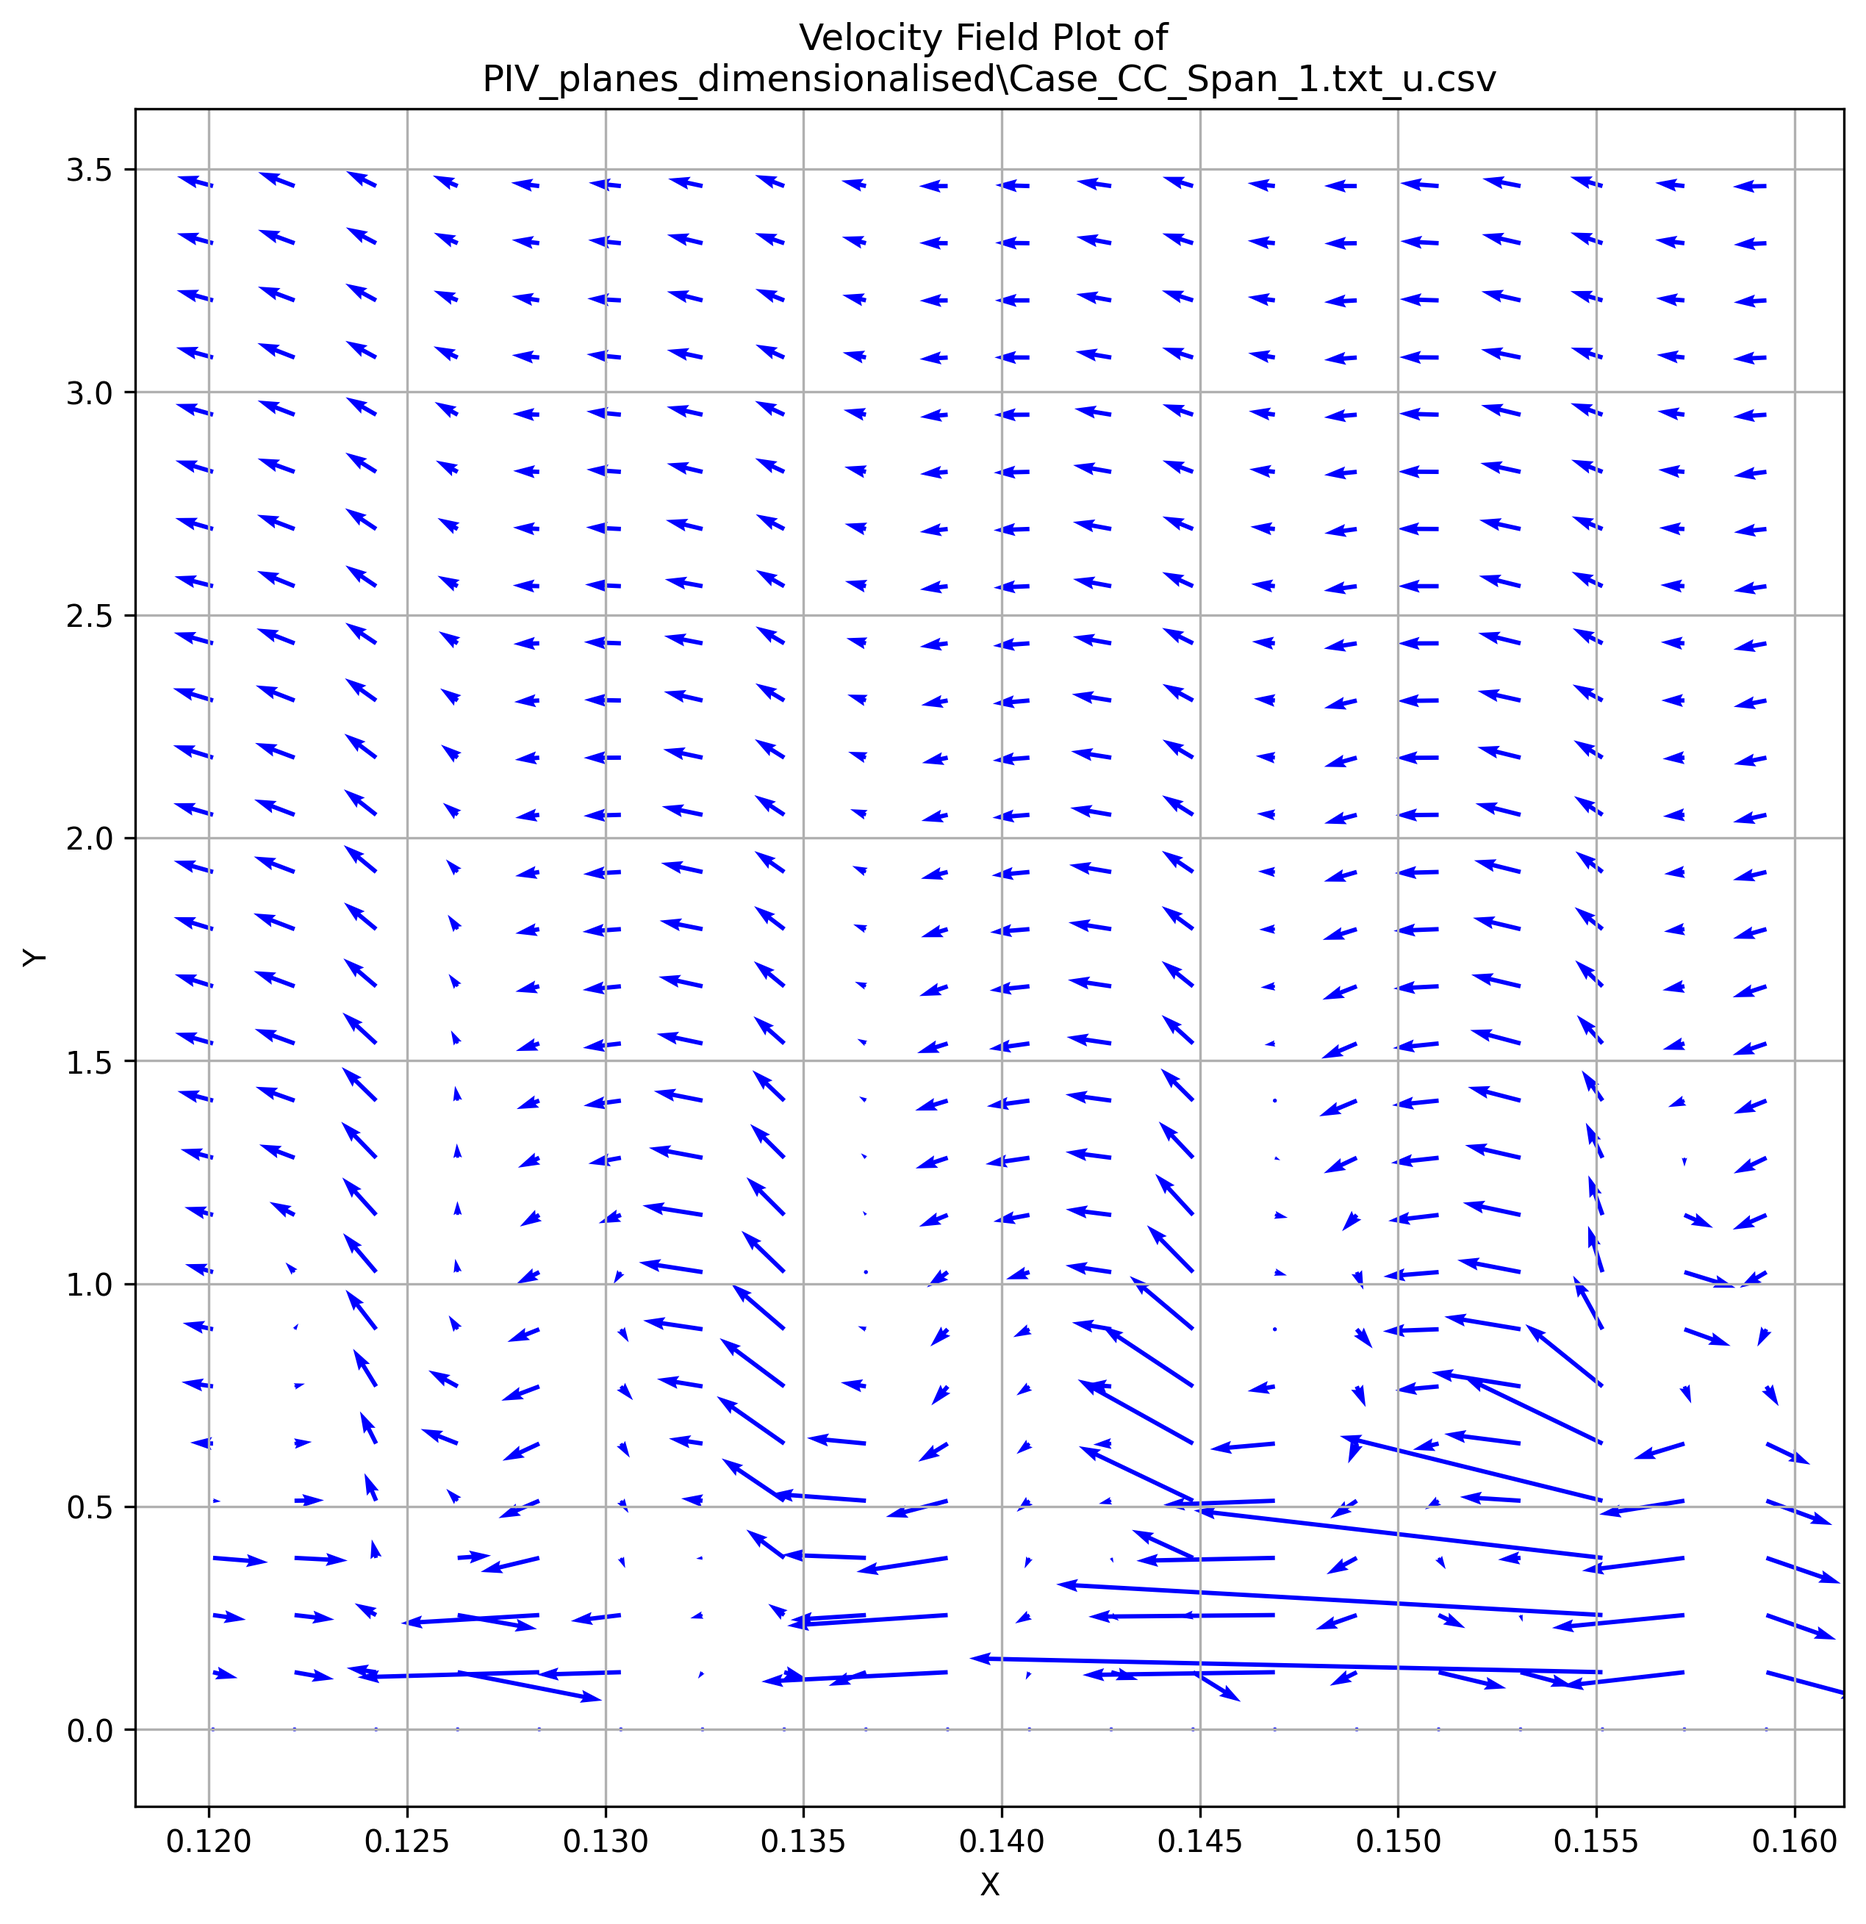
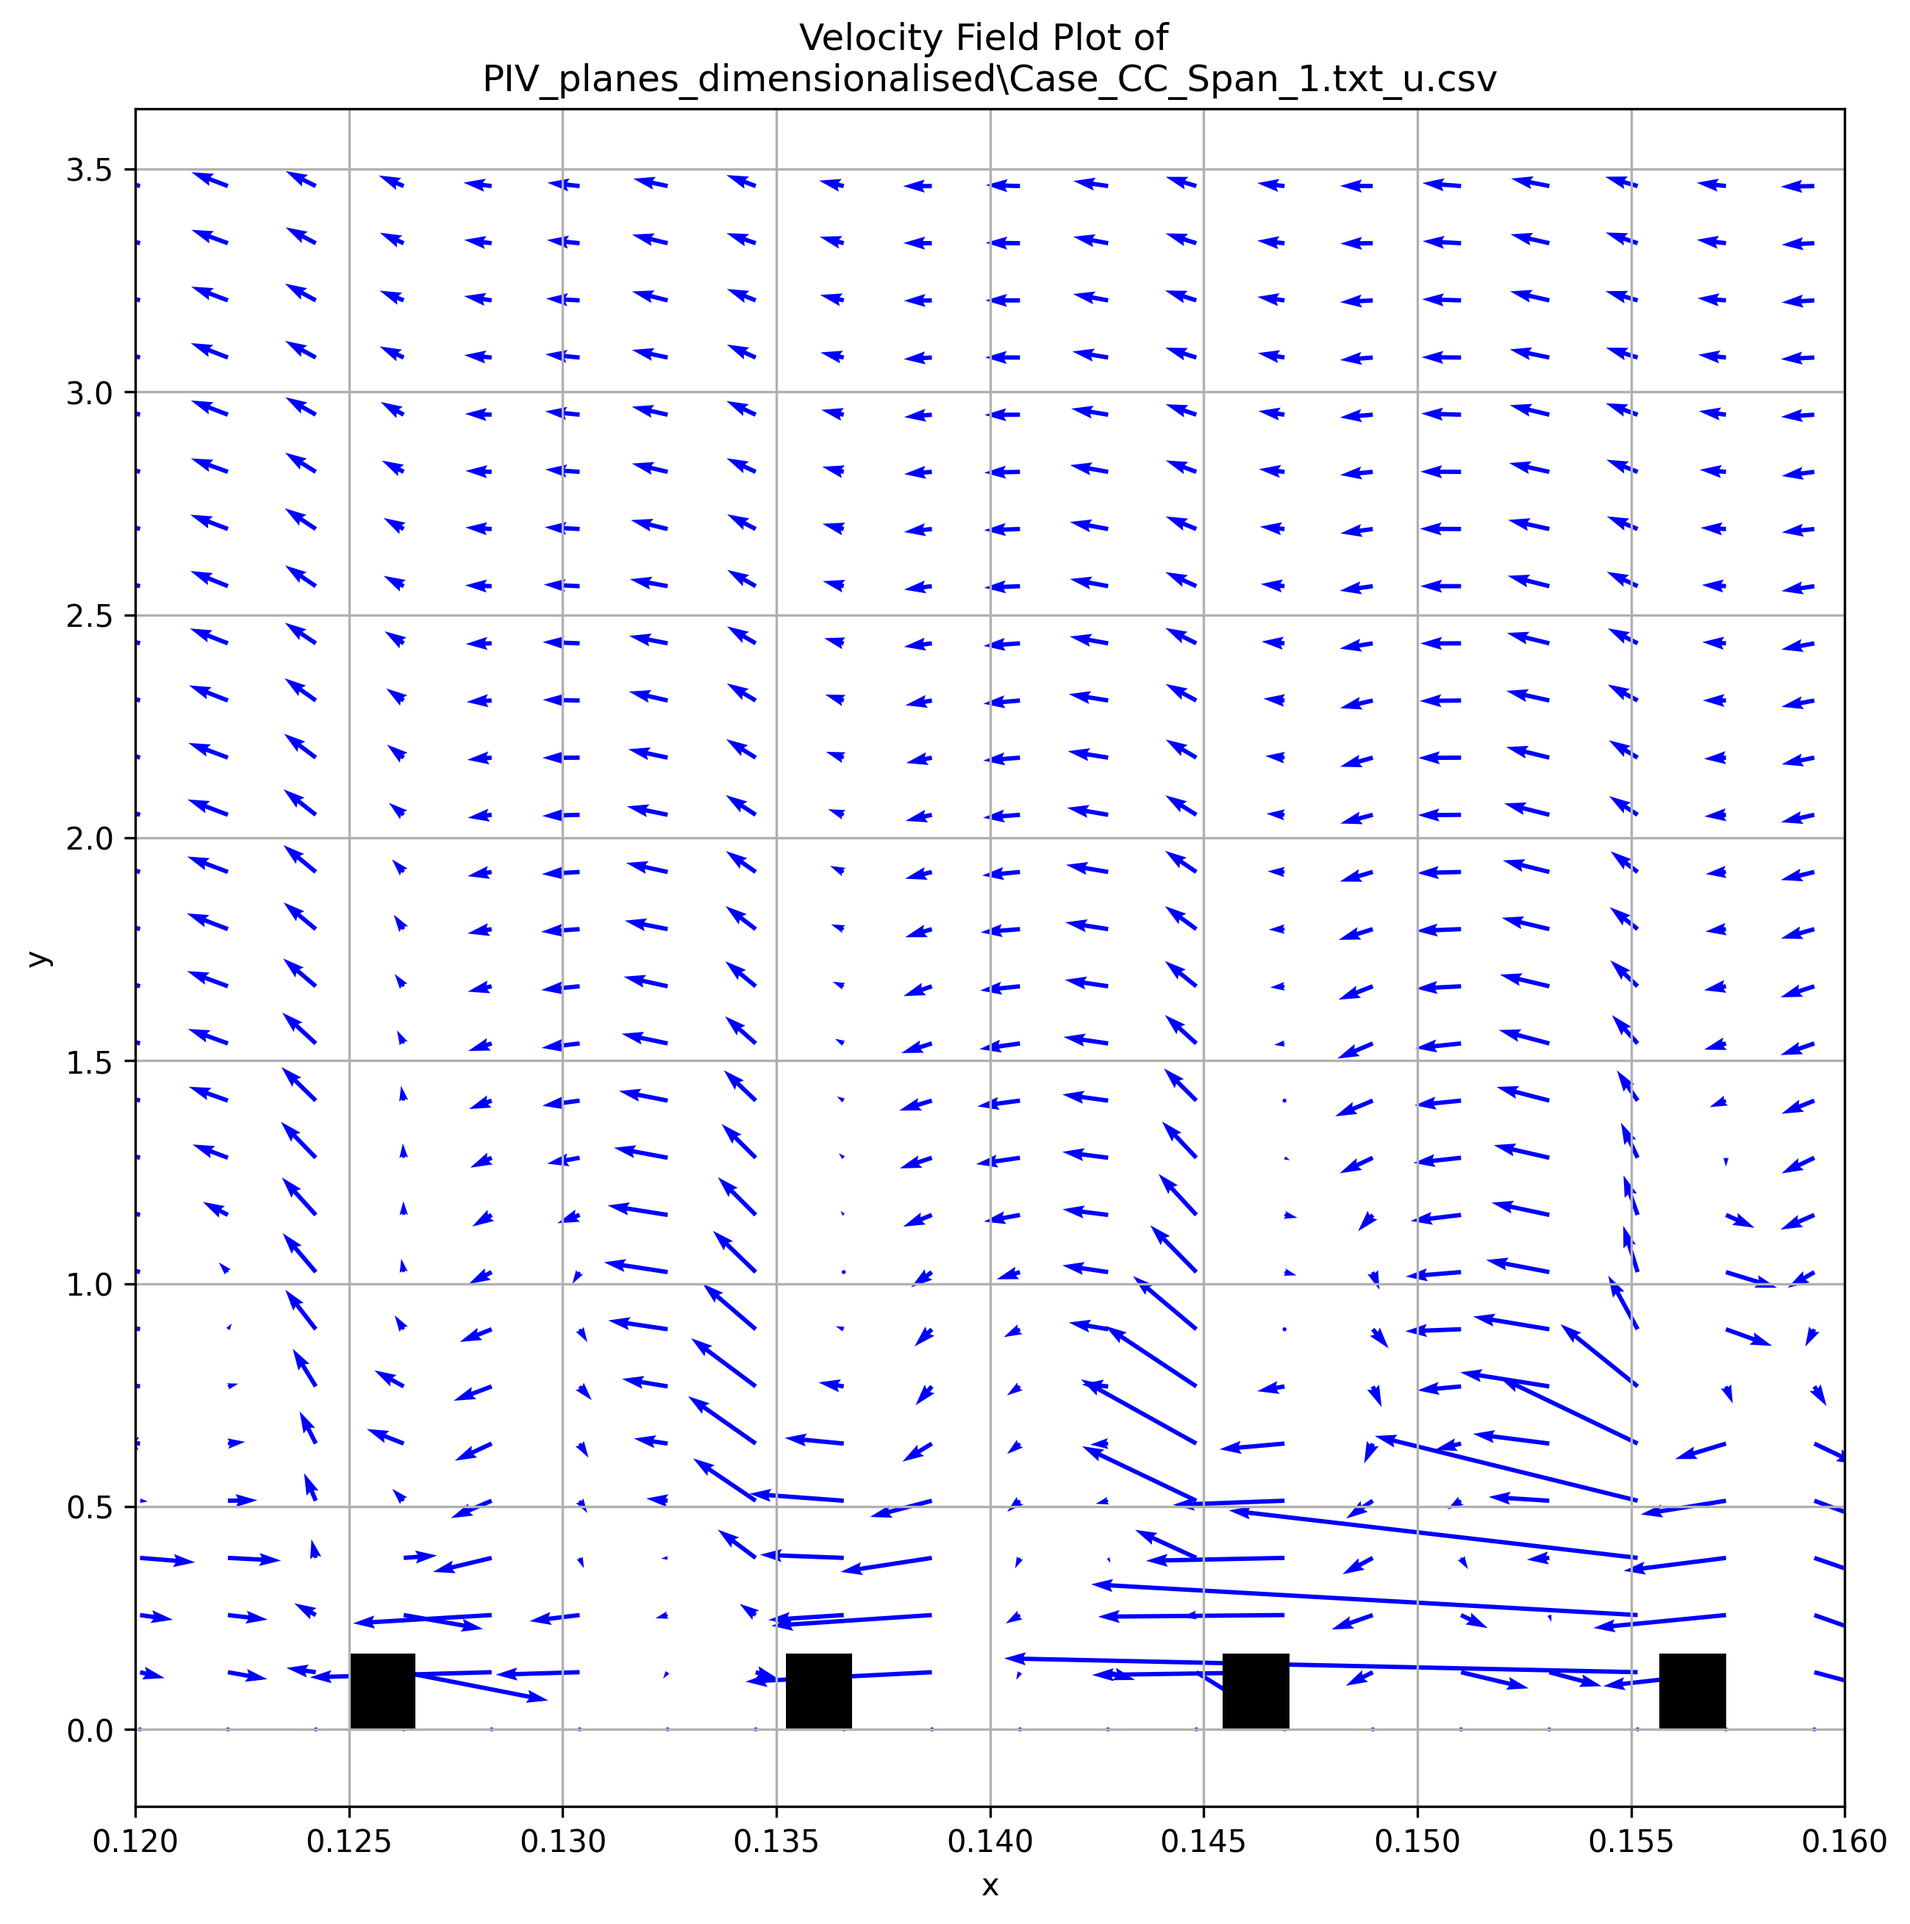
hey

diff --git a/3dvelocityfieldplot.py b/3dvelocityfieldplot.py
@@ -17,7 +17,7 @@ plane_files_Vs = sorted(glob.glob(f"{data_folder}/Case_SC_Span_*_v.csv"))  # V c
 z_positions = np.linspace(0, len(plane_files_U) - 1, len(plane_files_U))  # Define Z positions
 
 # Lists to store 3D velocity field
-U_list, V_list, W_list = [], [], []
+U_list, V_list, W_list, Uc_list, Vc_list = [], [], [], [], []
 
 # Step 1: Find common X and Y values across all planes
 x_sets = []
@@ -79,10 +79,14 @@ for i, (file_U,file_Us, file_V,file_Vs) in enumerate(zip(plane_files_U,plane_fil
     U_list.append(dfus.values) # U_list.append(dfus.values-dfu.values)
     V_list.append(dfvs.values) # V_list.append(dfvs.values-dfv.values)
     W_list.append(np.zeros_like(dfus.values)) # W_list.append((dfus.values-dfu.values)**0.5)  # Assuming W = 0 unless given
-
+    Uc_list.append(dfu.values) # U_list.append(dfus.values-dfu.values)
+    Vc_list.append(dfv.values) # V_list.append(dfvs.values-dfv.values)
+ 
 # Stack along the Z dimension
 U_3D = np.stack(U_list, axis=-1)  # Shape (Y, X, Z)
 V_3D = np.stack(V_list, axis=-1)
+Uc_3D = np.stack(Uc_list, axis=-1)  # Shape (Y, X, Z)
+Vc_3D = np.stack(Vc_list, axis=-1)
 W_3D = np.stack(W_list, axis=-1)
 
 
@@ -93,15 +97,32 @@ y_values = np.array(common_y_values)
 Y,X,Z = np.meshgrid(y_values,x_values,z_positions,indexing="ij")
 
 # Plot settings
-stepx = 30
-stepy = 5
+stepx = 1
+stepy = 1
 
 
 fig = plt.figure(figsize=(10, 10))
 ax = fig.add_subplot(111, projection="3d")
 
-print(np.shape(U_3D[::stepy,::stepx,:]))
+#print(np.shape(U_3D[::stepy,::stepx,:]))
 
+listaverageU = np.array([])
+listaverageUc = np.array([])
+listaverageV = np.array([])
+listaverageVc = np.array([])
+
+for i in range(24):
+    listaverageU = np.append(listaverageU,np.average(U_3D[:,:,i]))
+    listaverageUc = np.append(listaverageUc,np.average(Uc_3D[:,:,i]))
+    listaverageV = np.append(listaverageV,np.average(V_3D[:,:,i]))
+    listaverageVc = np.append(listaverageVc,np.average(Vc_3D[:,:,i]))
+
+print(np.std(listaverageU))
+print(np.std(listaverageUc))
+print(np.std(listaverageV))
+print(np.std(listaverageVc))
+
+'''
 ax.quiver(Y[::stepy,::stepx,:],X[::stepy,::stepx,:], Z[::stepy,::stepx,:], V_3D[::stepy,::stepx,:],U_3D[::stepy,::stepx,:], W_3D[::stepy,::stepx,:],length=0.1)
 ax.set_xlabel("Y")
 ax.set_ylabel("X")
@@ -117,3 +138,4 @@ plt.savefig(out_path, dpi=300, bbox_inches="tight")
 plt.close()
 
 print(f"Saved: {out_path}")
+'''

diff --git a/velocityfielddifference.py b/velocityfielddifference.py
@@ -3,6 +3,7 @@ import numpy as np
 import glob
 import os
 import matplotlib.pyplot as plt
+import matplotlib.patches as patches
 
 # Folder containing all plane files
 data_folder = "PIV_planes_dimensionalised"
@@ -95,13 +96,41 @@ for i in range(len(plane_files_U)):
 
     print(X.shape,Y.shape)
 
+    fig = plt.figure(figsize=(10, 10))
+    ax = fig.add_subplot()
+
     # Plot the averaged velocity field with centered arrows
-    plt.figure(figsize=(10, 10))
-    plt.quiver(X[::stepy, ::stepx], Y[::stepy, ::stepx], U_2D[0][::stepy, ::stepx], V_2D[0][::stepy, ::stepx], color="b")
-    plt.xlabel("X")
-    plt.ylabel("Y")
-    plt.title(f"Velocity Field Plot of \n{plane_files_U[i]}")
-    plt.grid()
+    ax.quiver(X[::stepy, ::stepx], Y[::stepy, ::stepx], U_2D[0][::stepy, ::stepx], V_2D[0][::stepy, ::stepx], color="b")
+
+    c = 1272.8*np.cos(np.pi/4)
+    w = 1.4/c
+    h = 0.17
+    space = 9.2/c
+
+
+    rect1 = patches.Rectangle((0.125, 0), w, h,facecolor='black', alpha=1)
+
+    rect2 = patches.Rectangle((0.125+space, 0), w, h,facecolor='black', alpha=1)
+
+    rect3 = patches.Rectangle((0.125+2*space, 0), w, h,facecolor='black', alpha=1)
+
+    rect4 = patches.Rectangle((0.125+3*space, 0), w, h,facecolor='black', alpha=1)
+
+    rect5 = patches.Rectangle((0.125+4*space, 0), w, h,facecolor='black', alpha=1)
+
+    ax.add_patch(rect1)
+    ax.add_patch(rect2)
+    ax.add_patch(rect3)
+    ax.add_patch(rect4)
+    ax.add_patch(rect5)
+    ax.grid()
+
+    ax.set_xlim(0.12, 0.16)
+
+    # Add labels and title
+    ax.set_xlabel('x')
+    ax.set_ylabel('y')
+    ax.set_title(f"Velocity Field Plot of \n{plane_files_U[i]}")
 
 
     # Save the figure

diff --git a/u_infinity.py b/u_infinity.py
@@ -40,7 +40,10 @@ def extract_u_at_y(csv_file, y_target=3.5):
     row_data = df.loc[actual_y]  # Pandas Series: index=X, values=U
     return row_data
 
+
 def main():
+    avgfreestreamUc = np.array([])
+    avgfreestreamUs = np.array([])
     """
     For each plane i in [1..24],
     1) Extract the entire row at y=3.5 for CC & SC.
@@ -98,6 +101,10 @@ def main():
         if len(sc_dimx) > 0:
             plt.plot(sc_dimx, u_sc, label='SC')
 
+        avgfreestreamUc = np.append(avgfreestreamUc,np.average(u_cc))
+        avgfreestreamUs = np.append(avgfreestreamUs,np.average(u_sc))
+
+
         plt.xlabel("Dimensionless X (x/c_x)")
         plt.ylabel("U velocity at y=3.5")
         plt.title(f"Plane {i}: U velocity at y=3.5, X in [120..155] => dimensionless")
@@ -108,6 +115,7 @@ def main():
         plt.savefig(out_name, dpi=300, bbox_inches="tight")
         plt.close()
         print(f"Saved {out_name}")
+    print(avgfreestreamUc,avgfreestreamUs)
 
 if __name__ == "__main__":
     main()
